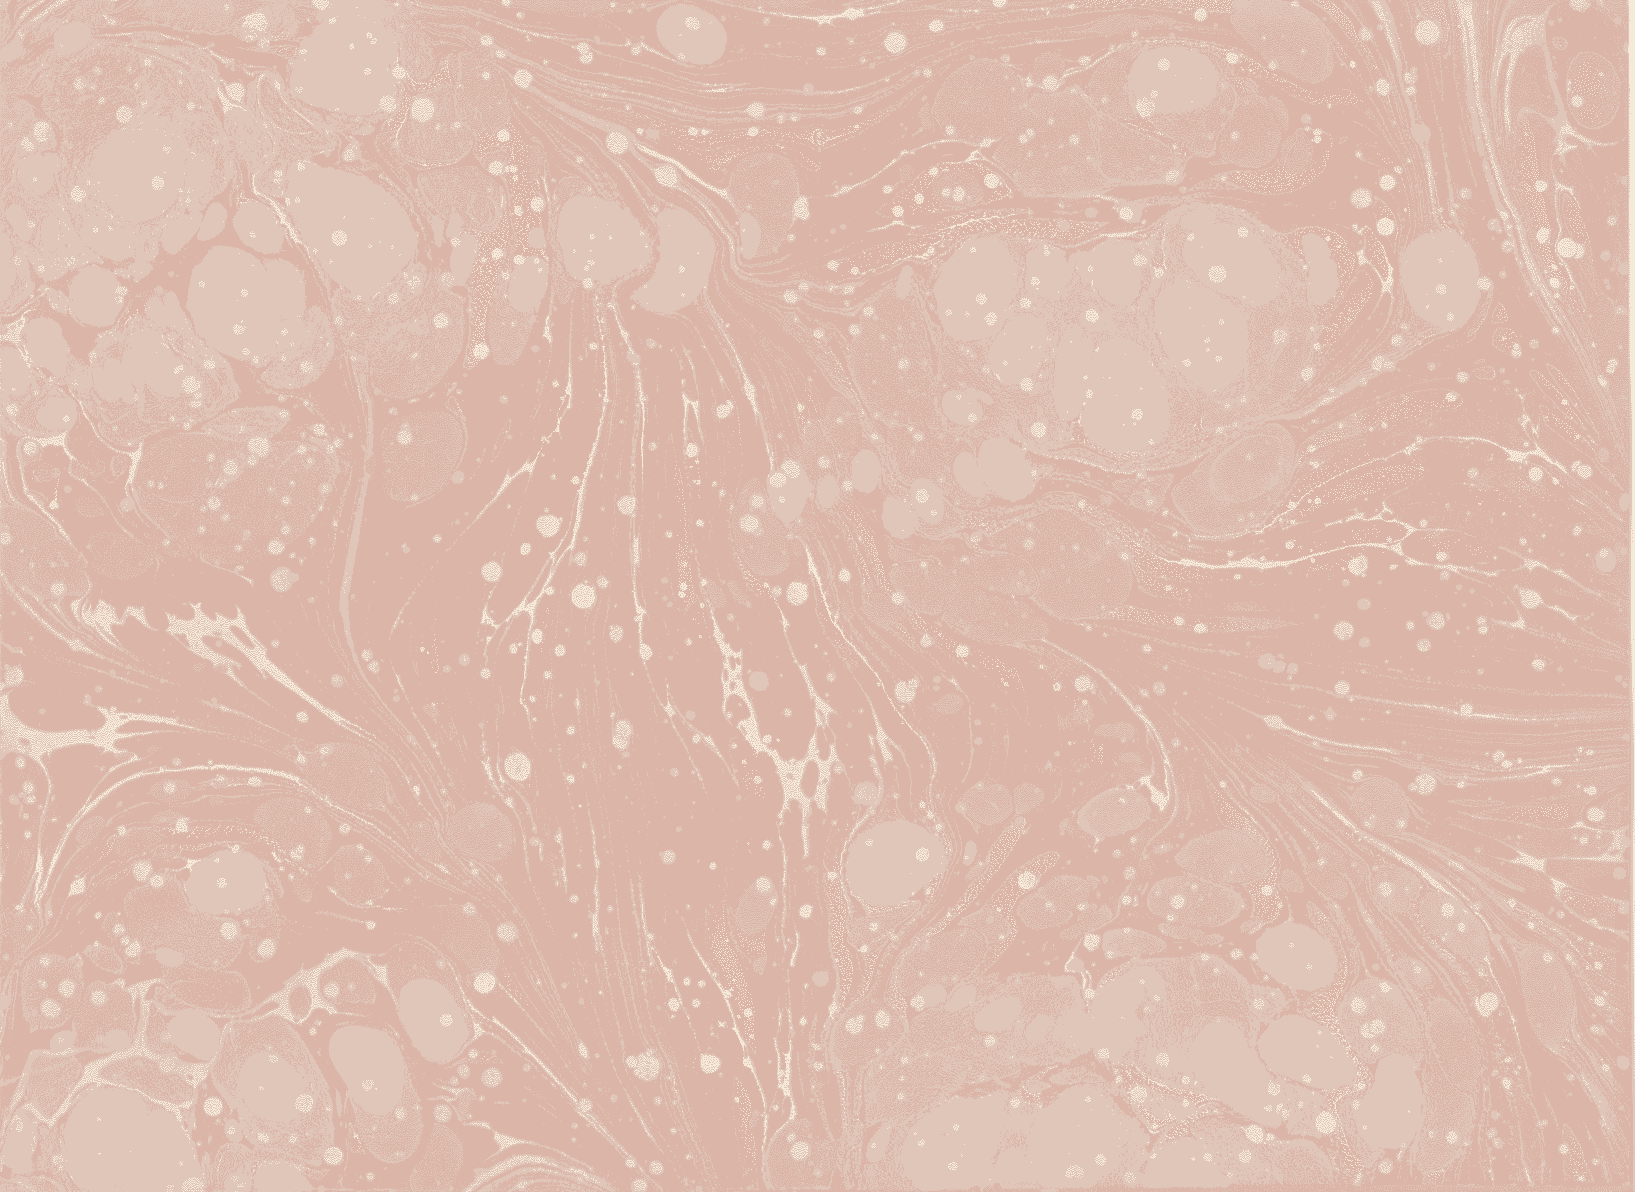
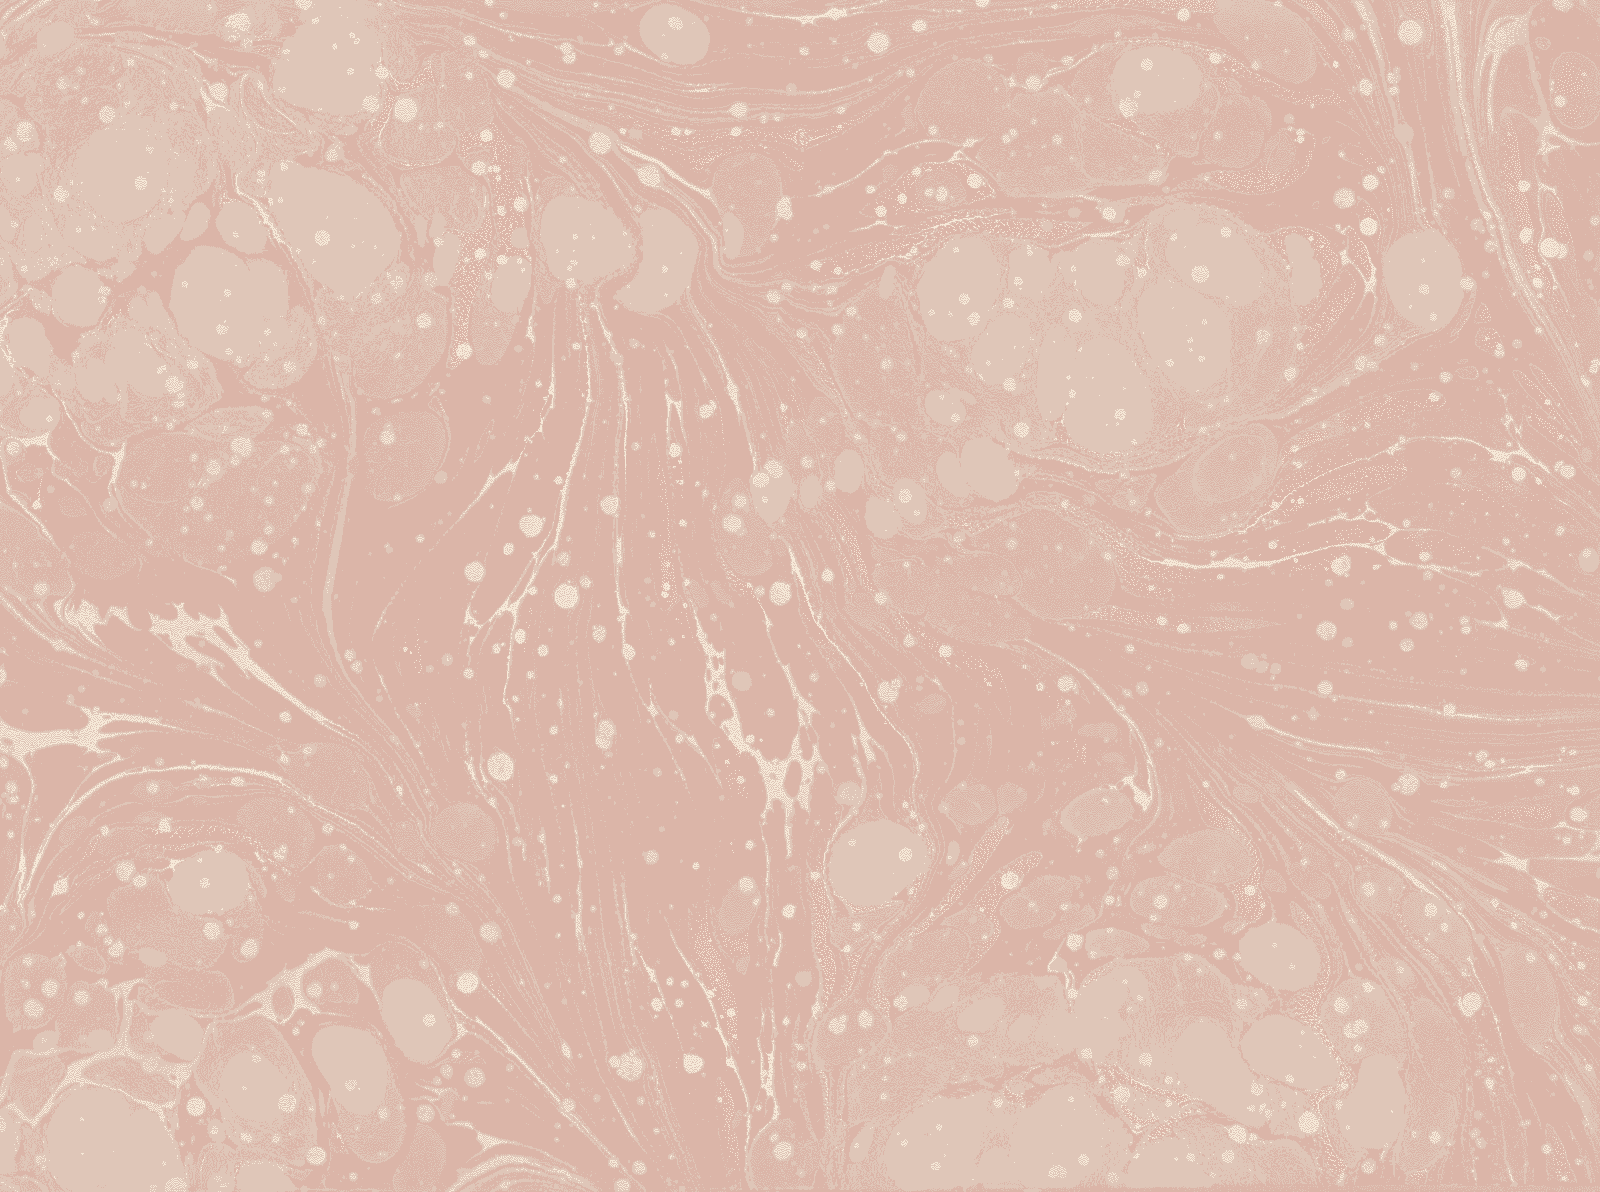
backgrounds

diff --git a/src/components/Loading.vue b/src/components/Loading.vue
@@ -13,8 +13,8 @@ import icons from 'components/icons';
 const preload = [
   '/assets/stamp.svg',
   '/assets/backgrounds/menu.jpg',
-  '/assets/backgrounds/dashboard.jpg',
-  '/assets/backgrounds/parliament.jpg',
+  '/assets/backgrounds/dashboard.png',
+  '/assets/backgrounds/parliament.png',
   '/assets/backgrounds/plan.png',
   '/assets/backgrounds/regions.png',
   '/assets/icons/close.svg',

diff --git a/src/components/phases/planning/tabs/Dashboard.vue b/src/components/phases/planning/tabs/Dashboard.vue
@@ -318,7 +318,7 @@ export default {
 }
 
 .planning--page--dashboard {
-  background: url('/assets/backgrounds/dashboard.jpg');
+  background: url('/assets/backgrounds/dashboard.png');
   background-size: cover;
   background-repeat: no-repeat;
   background-position: center center;

diff --git a/src/components/phases/planning/tabs/Parliament.vue b/src/components/phases/planning/tabs/Parliament.vue
@@ -95,7 +95,7 @@ export default {
 
 <style>
 .parliament {
-  background: url('/assets/backgrounds/parliament.jpg');
+  background: url('/assets/backgrounds/parliament.png');
   background-size: cover;
   background-repeat: no-repeat;
   background-position: center center;
